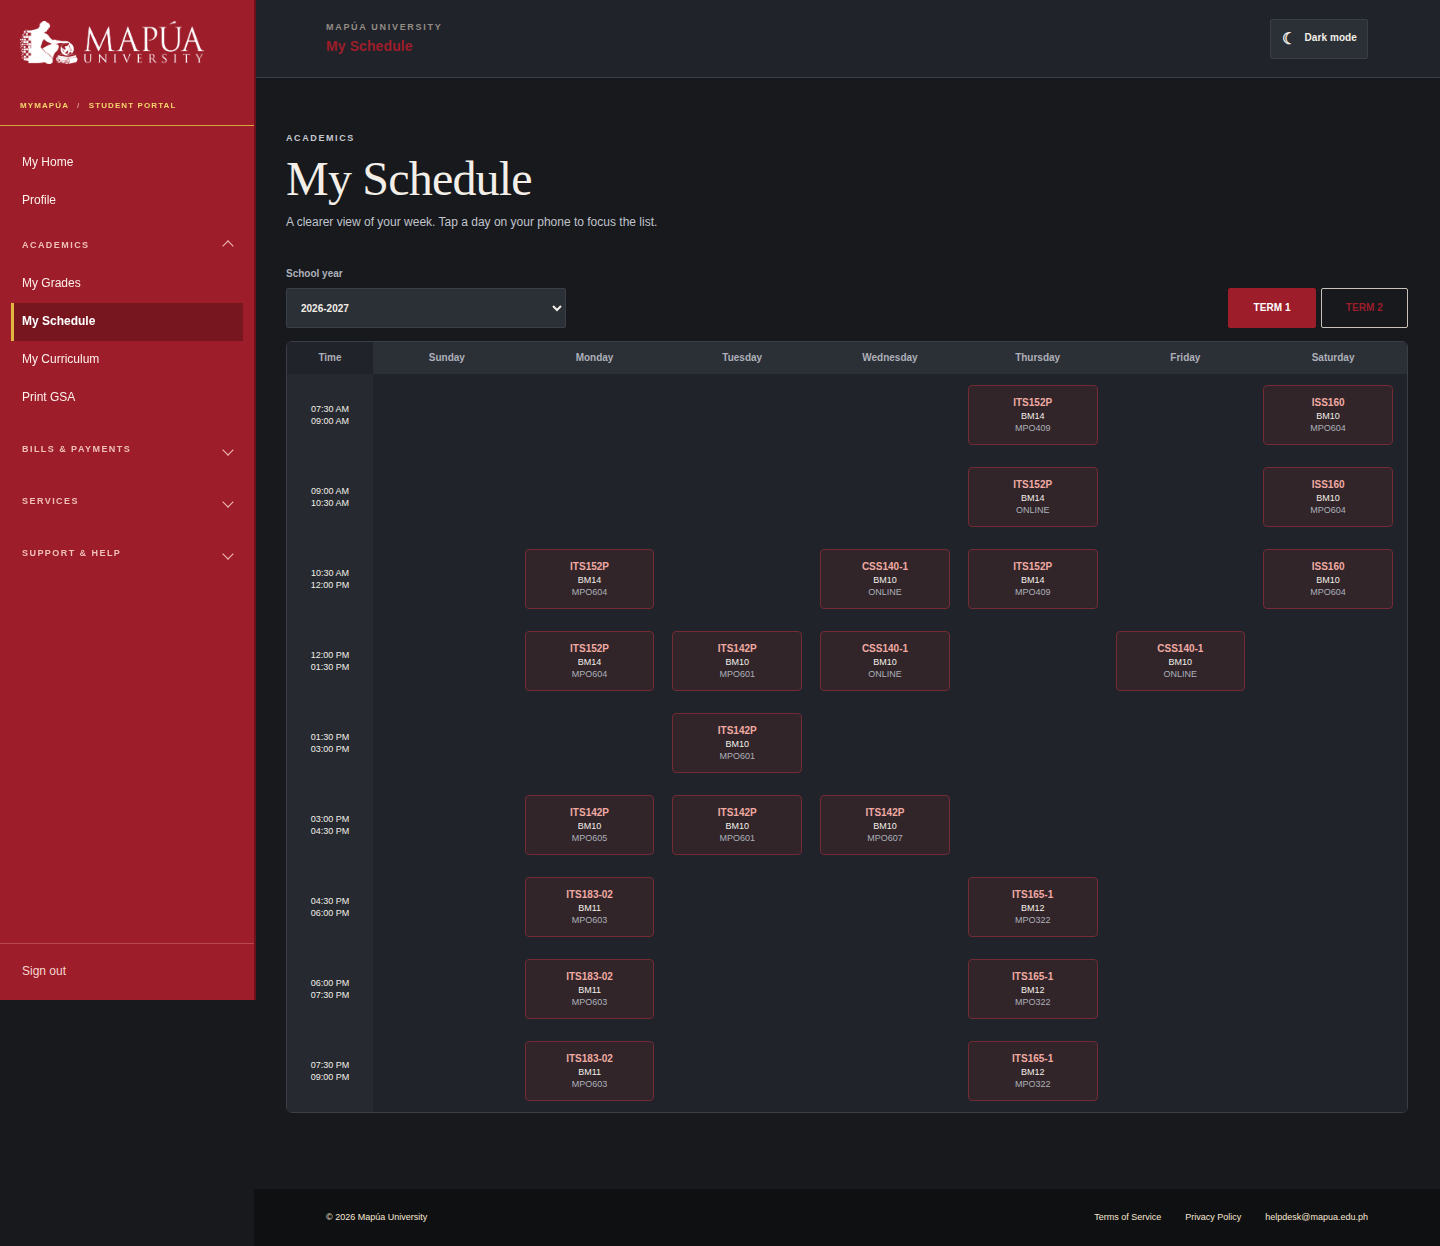
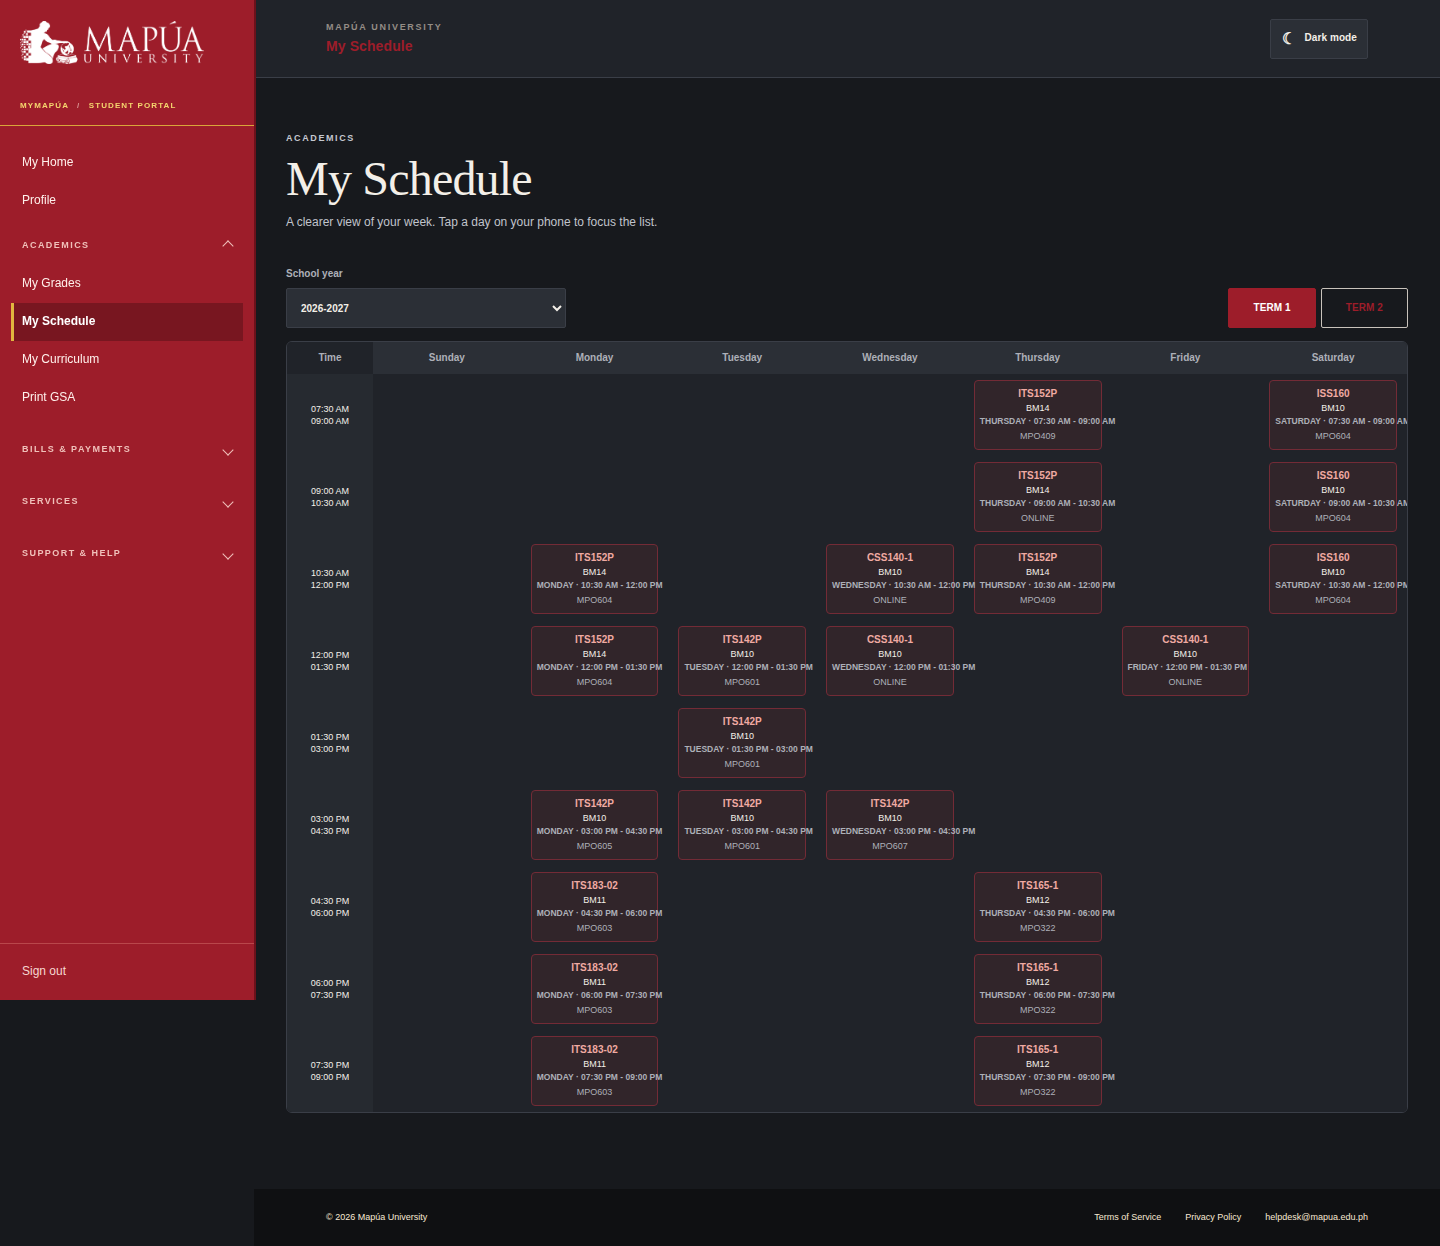
improve schedule subject alignment

diff --git a/script.js b/script.js
@@ -167,15 +167,20 @@ const scheduleRows = [
   ['06:00 PM<br />07:30 PM', [null, { code: 'ITS183-02', section: 'BM11', room: 'MPO603' }, null, null, { code: 'ITS165-1', section: 'BM12', room: 'MPO322' }, null, null]],
   ['07:30 PM<br />09:00 PM', [null, { code: 'ITS183-02', section: 'BM11', room: 'MPO603' }, null, null, { code: 'ITS165-1', section: 'BM12', room: 'MPO322' }, null, null]],
 ];
-function scheduleCell(course) { return course ? `<div class="class-block"><strong>${course.code}</strong><span>${course.section}</span><small>${course.room}</small></div>` : ''; }
+function scheduleCell(course, time = '', day = '') {
+  if (!course) return '';
+  const timeLabel = time.replace(/<br\s*\/?>(\s*)/i, ' - ').replace(/\s+/g, ' ').trim();
+  return `<div class="class-block"><strong>${course.code}</strong><span>${course.section}</span><small class="schedule-slot-time">${day} · ${timeLabel}</small><small class="schedule-room">${course.room}</small></div>`;
+}
 function scheduleView() {
   const days = ['Sunday', 'Monday', 'Tuesday', 'Wednesday', 'Thursday', 'Friday', 'Saturday'];
   const currentDay = days[new Date().getDay()];
   const mobileDays = days.map((day, dayIndex) => {
-    const classes = scheduleRows.flatMap((row) => row[1][dayIndex] ? [`<article class="mobile-class"><span class="mobile-class-time">${row[0]}</span>${scheduleCell(row[1][dayIndex])}</article>`] : []);
+    const classes = scheduleRows.flatMap((row) => row[1][dayIndex] ? [`<article class="mobile-class"><span class="mobile-class-time">${row[0]}</span>${scheduleCell(row[1][dayIndex], row[0], day)}</article>`] : []);
     return `<section class="mobile-day${day === currentDay ? ' active' : ''}" data-day="${day}"><h2>${day}</h2>${classes.join('') || '<p class="mobile-empty">No classes scheduled.</p>'}</section>`;
   }).join('');
-  return `<div class="schedule-toolbar"><label>School year<select><option>2026-2027</option></select></label><div class="term-switch"><button class="active" type="button">Term 1</button><button type="button">Term 2</button></div></div><div class="mobile-schedule-controls"><div class="schedule-mobile-days" role="tablist" aria-label="Schedule day"><button class="mobile-day-button${currentDay === 'Sunday' ? ' active' : ''}" type="button" data-day="Sunday">Sun</button>${days.slice(1, 6).map((day) => `<button class="mobile-day-button${day === currentDay ? ' active' : ''}" type="button" data-day="${day}">${day.slice(0, 3)}</button>`).join('')}<button class="mobile-day-button${currentDay === 'Saturday' ? ' active' : ''}" type="button" data-day="Saturday">Sat</button></div><button class="schedule-full-view-toggle" type="button" aria-expanded="false"><span class="full-view-icon" aria-hidden="true"></span><span>Full view</span></button></div><div class="schedule-mobile-list">${mobileDays}</div><div class="weekly-schedule"><table class="schedule-table"><thead><tr><th>Time</th>${days.map((day) => `<th>${day}</th>`).join('')}</tr></thead><tbody>${scheduleRows.map((row) => `<tr><th scope="row">${row[0]}</th>${row[1].map((course) => `<td>${scheduleCell(course)}</td>`).join('')}</tr>`).join('')}</tbody></table></div>`;
+  const scheduleTable = scheduleRows.map((row) => `<tr><th scope="row">${row[0]}</th>${row[1].map((course, dayIndex) => `<td>${scheduleCell(course, row[0], days[dayIndex])}</td>`).join('')}</tr>`).join('');
+  return `<div class="schedule-toolbar"><label>School year<select><option>2026-2027</option></select></label><div class="term-switch"><button class="active" type="button">Term 1</button><button type="button">Term 2</button></div></div><div class="mobile-schedule-controls"><div class="schedule-mobile-days" role="tablist" aria-label="Schedule day"><button class="mobile-day-button${currentDay === 'Sunday' ? ' active' : ''}" type="button" data-day="Sunday">Sun</button>${days.slice(1, 6).map((day) => `<button class="mobile-day-button${day === currentDay ? ' active' : ''}" type="button" data-day="${day}">${day.slice(0, 3)}</button>`).join('')}<button class="mobile-day-button${currentDay === 'Saturday' ? ' active' : ''}" type="button" data-day="Saturday">Sat</button></div><button class="schedule-full-view-toggle" type="button" aria-expanded="false"><span class="full-view-icon" aria-hidden="true"></span><span>Full view</span></button></div><div class="schedule-mobile-list">${mobileDays}</div><div class="weekly-schedule"><table class="schedule-table"><thead><tr><th>Time</th>${days.map((day) => `<th>${day}</th>`).join('')}</tr></thead><tbody>${scheduleTable}</tbody></table></div>`;
 }
 pageData['#schedule'][2] = scheduleView();
 function historyTable() { return `<table><thead><tr><th>Term</th><th>Description</th><th>Payment date</th><th>OR number</th><th class="amount">Amount</th></tr></thead><tbody>${paymentRows.map((row) => `<tr>${row.slice(0, 4).map((cell) => `<td>${cell}</td>`).join('')}<td class="amount">₱ ${row[4]}</td></tr>`).join('')}</tbody></table>`; }

diff --git a/styles.css b/styles.css
@@ -3593,6 +3593,56 @@ html[data-theme="dark"] .quick-card:hover strong {
 	color: #fff;
 }
 
+/* Make each schedule subject self-identifying and evenly spaced. */
+.content .schedule-table .class-block {
+	display: flex !important;
+	width: calc(100% - 12px) !important;
+	min-height: 64px !important;
+	flex-direction: column !important;
+	align-items: center !important;
+	justify-content: center !important;
+	gap: 2px !important;
+	margin: 0 auto !important;
+	padding: 7px 5px !important;
+	box-sizing: border-box;
+	line-height: 1.2;
+	text-align: center;
+}
+.content .schedule-table .class-block strong,
+.content .schedule-table .class-block span,
+.content .schedule-table .class-block small {
+	width: 100% !important;
+	margin: 0 !important;
+	text-align: center !important;
+	white-space: nowrap;
+}
+.content .schedule-table .class-block .schedule-slot-time {
+	color: var(--red);
+	font-size: 8.5px;
+	font-weight: 700;
+	letter-spacing: 0;
+	text-transform: uppercase;
+}
+.content .schedule-table .class-block .schedule-room {
+	color: var(--muted);
+	font-size: 9px;
+}
+.content .mobile-class .class-block .schedule-slot-time {
+	display: none;
+}
+.content .mobile-class .class-block .schedule-room {
+	font-size: 10px;
+}
+@media(max-width:800px) {
+	.content .schedule-table .class-block {
+		min-height: 64px !important;
+		padding-inline: 3px !important;
+	}
+	.content .schedule-table .class-block .schedule-slot-time {
+		font-size: 8px;
+	}
+}
+
 .content .contact-form > .form-section-heading,
 .content .contact-form fieldset {
 	border-color: var(--rule);
